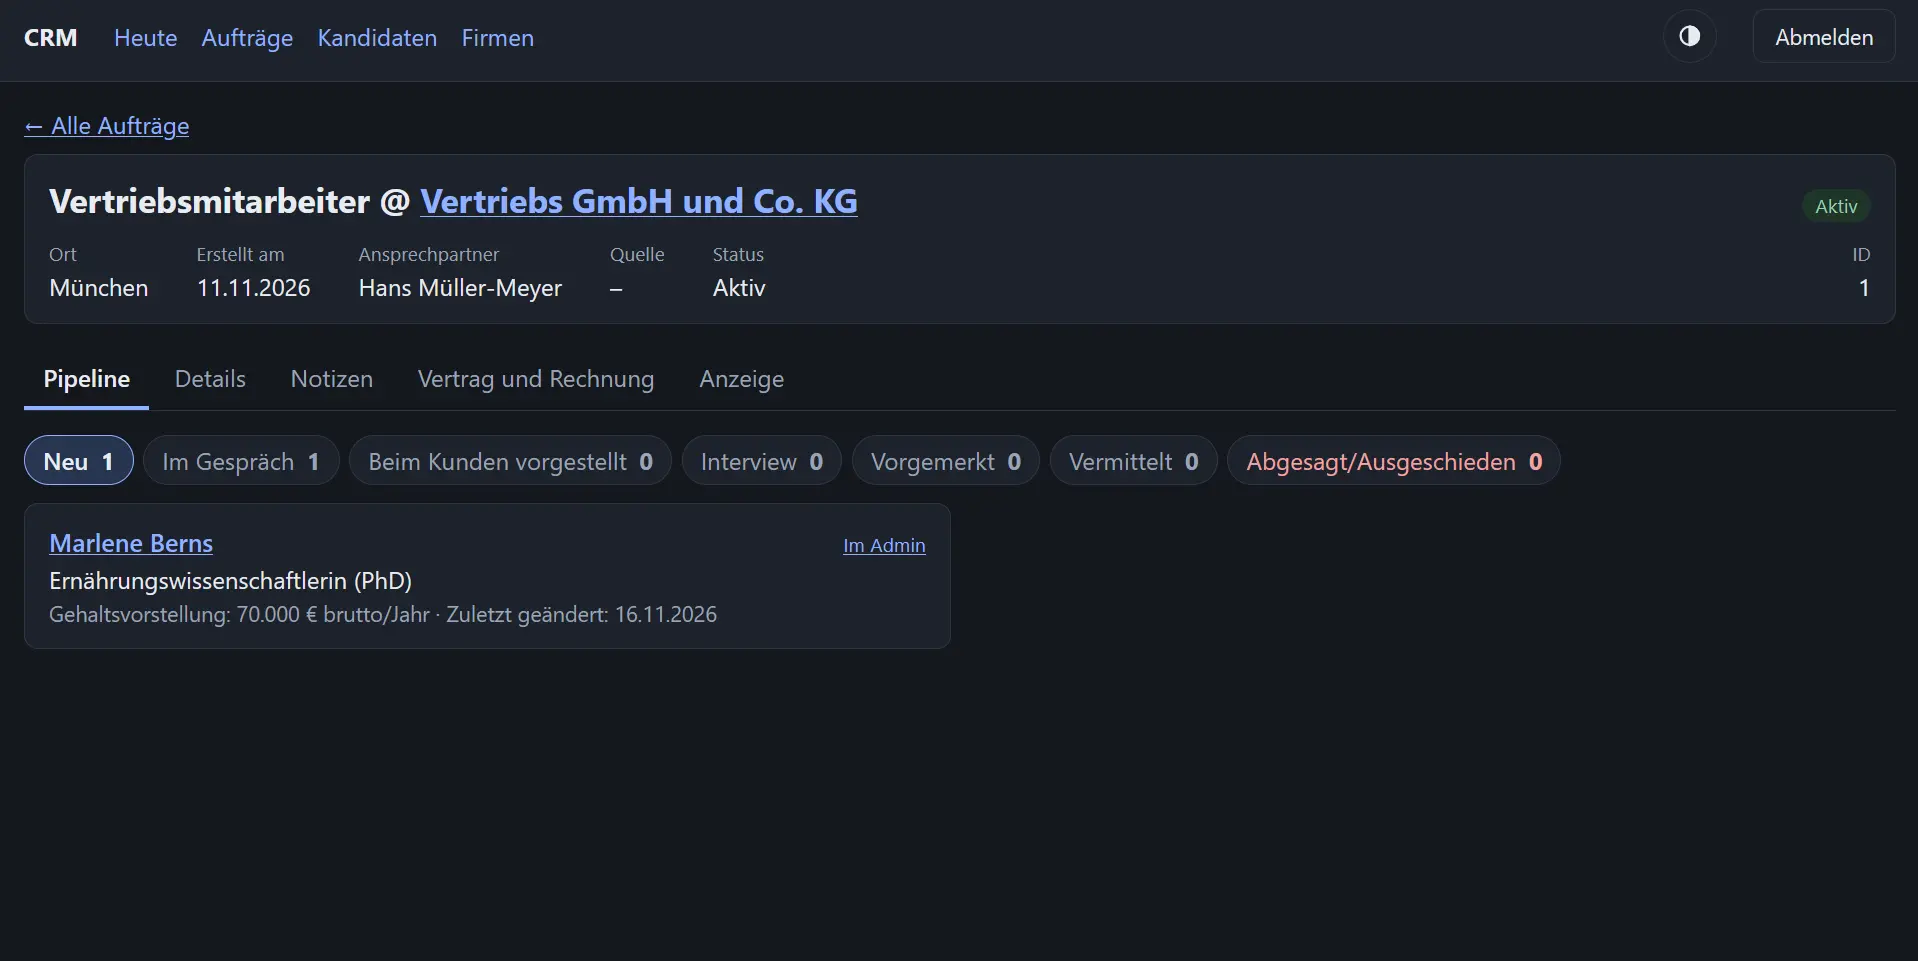
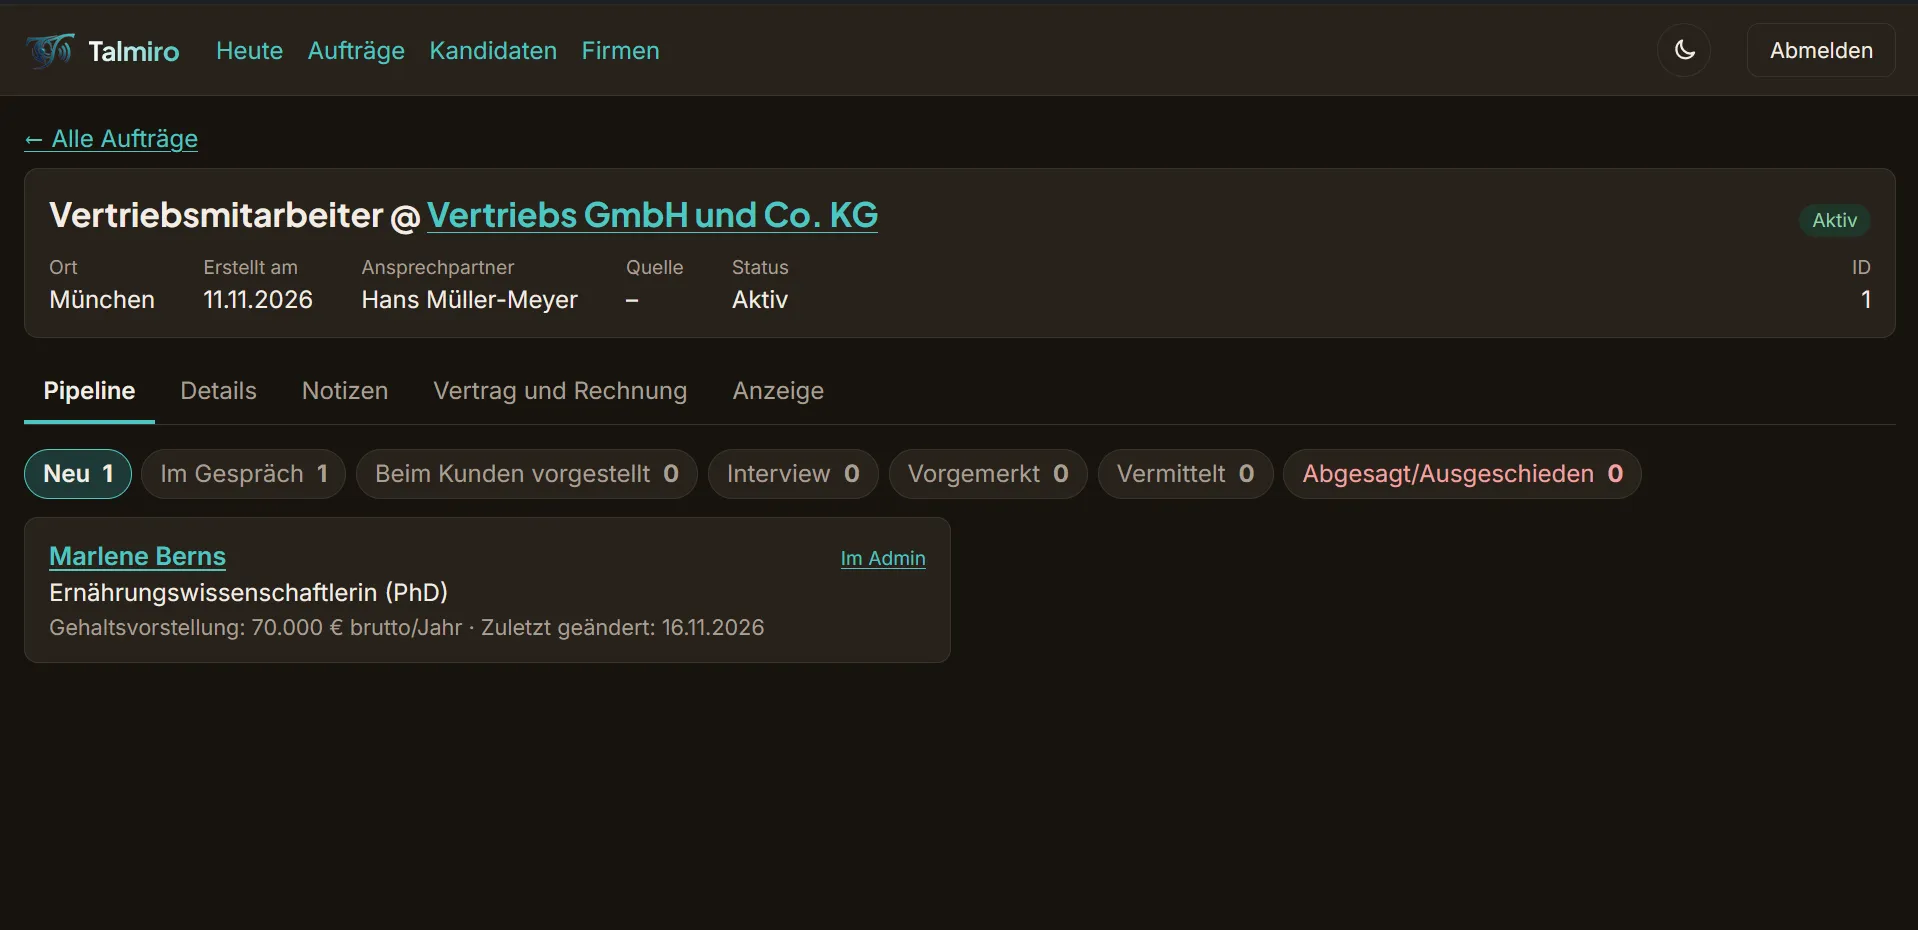
Einblicke: neue Screenshots mit Gruppe Verwaltung; Preise in Pilot und FAQ
- make-einblicke.mjs: neue Quelldateien, sechs Ausgabebilder (Admin unbeschnitten)
- Einblicke.astro: Gruppen Weboberflaeche (4) und Verwaltung (2) mit h3, neue Einleitung und Texte
- Pilot.astro und Faq.astro: Preise, Hinweis nach Paragraf 19 UStG
- PLATZHALTER.md und README aktualisiert

diff --git a/src/styles/global.css b/src/styles/global.css
@@ -329,10 +329,13 @@ html.js .nav .theme-knopf { display: inline-flex; }
 /* Einblicke: 2x2-Raster, Laptop breiter als Handy; am Handy untereinander */
 .einblicke .wrap { display: flex; flex-direction: column; gap: 40px; }
 .raster-einblicke { display: grid; grid-template-columns: 2fr 1fr; gap: 56px 48px; align-items: start; }
+.raster-einblicke.raster-admin { grid-template-columns: 1fr 1fr; }
+.einblick-gruppe { display: flex; flex-direction: column; gap: 28px; }
+.wrap .gruppen-titel { margin: 0; font-size: 24px; line-height: 1.25; color: var(--titel); }
 .einblick { margin: 0; display: flex; flex-direction: column; gap: 16px; min-width: 0; }
 .einblick-handy { align-items: center; }
 .einblick-handy .telefon { width: 100%; max-width: 260px; }
-.einblick-handy .telefon-schirm { aspect-ratio: 1080 / 2203; }
+.einblick-handy .telefon-schirm { aspect-ratio: 1080 / 2205; }
 .einblick figcaption { font-size: 15px; line-height: 1.55; color: var(--text-2); }
 .einblick figcaption strong { color: var(--titel); }
 .einblick-handy figcaption { max-width: 260px; }
@@ -341,12 +344,13 @@ html.js .nav .theme-knopf { display: inline-flex; }
 .einblick-bild, .einblick-bild img, .dialog-bild img { display: block; }
 .laptop-inner .einblick-bild, .telefon-schirm .einblick-bild { width: 100%; height: 100%; }
 .einblick-bild img { width: 100%; height: 100%; object-fit: contain; object-position: top; }
-.einblick-hell .laptop-inner, .einblick-hell .telefon-schirm { background: #f5f7f9; }
-.einblick-dunkel .laptop-inner, .einblick-dunkel .telefon-schirm { background: #14181d; }
+.einblick-hell .laptop-inner, .einblick-hell .telefon-schirm { background: #fbf8f2; }
+.einblick-dunkel .laptop-inner, .einblick-dunkel .telefon-schirm { background: #17130e; }
+.einblick-admin .laptop-inner { aspect-ratio: 1918 / 1024; }
 /* Laptop-Rahmen (nur CSS) */
 .laptop { width: 100%; }
 .laptop-rahmen { background: var(--geraet-rahmen); border-radius: 14px 14px 3px 3px; padding: 10px 10px 12px; }
-.laptop-inner { position: relative; display: block; aspect-ratio: 1918 / 961; border-radius: 4px; overflow: hidden; background: var(--geraet-schirm); }
+.laptop-inner { position: relative; display: block; aspect-ratio: 1918 / 930; border-radius: 4px; overflow: hidden; background: var(--geraet-schirm); }
 .laptop-fuss { position: relative; height: 12px; margin: 0 -3%; background: var(--geraet-fuss); border-radius: 0 0 18px 18px; }
 .laptop-fuss::after { content: ''; position: absolute; left: 50%; top: 0; width: 16%; height: 5px; transform: translateX(-50%); background: var(--geraet-kerbe); border-radius: 0 0 8px 8px; }
 /* Platzhalter, solange das Bild fehlt */
@@ -364,7 +368,7 @@ html.js .nav .theme-knopf { display: inline-flex; }
 .dialog-zu:focus-visible { outline: 3px solid var(--fokus-dunkel); outline-offset: 2px; }
 html:has(dialog[open]) { overflow: hidden; }
 @media (max-width: 720px) {
-  .raster-einblicke { grid-template-columns: 1fr; gap: 40px; }
+  .raster-einblicke, .raster-einblicke.raster-admin { grid-template-columns: 1fr; gap: 40px; }
 }
 
 .kontrolle { background: var(--flaeche); }
@@ -377,6 +381,7 @@ html:has(dialog[open]) { overflow: hidden; }
 
 .pilot .wrap { display: flex; flex-wrap: wrap; gap: 48px; align-items: flex-start; }
 .pilot-text { flex: 1 1 400px; display: flex; flex-direction: column; gap: 20px; }
+.preis-hinweis { margin: 0; font-size: 14px; line-height: 1.5; color: var(--text-3); }
 .pilot-text ul { margin: 0; padding-left: 20px; display: flex; flex-direction: column; gap: 10px; font-size: 17px; line-height: 1.5; color: var(--text); }
 .formular { flex: 1 1 420px; min-width: 0; background: var(--flaeche); border-radius: 20px; padding: 32px; display: flex; flex-direction: column; gap: 18px; }
 .feld { display: flex; flex-direction: column; gap: 6px; }

diff --git a/README.md b/README.md
@@ -108,8 +108,8 @@ räumt auf. Es bricht ab, wenn schon eine `kontakt.config.php` im Projektordner 
 
 ## Einblicke (Screenshots)
 
-- Komponente `src/components/Einblicke.astro`, Raster 2×2: oben „Hell“, unten „Dunkel“, links Laptop, rechts Handy (am Handy untereinander).
-- Bilder: `hell-laptop`, `hell-handy`, `dunkel-laptop`, `dunkel-handy` (webp/png/jpg) in `src/assets/einblicke/`. Fehlt ein Bild, bleibt der Platzhalter „Bild folgt“. Astro erzeugt AVIF/WebP in mehreren Größen (`loading="lazy"`); ein Klick öffnet das Bild groß in einem `<dialog>`.
-- Neu erzeugen aus `_entwurf/ui-hell_compressed.webp`, `ui-hell-handy_compressed.webp`, `ui-dark_compressed.webp`, `ui-dark-handy_compressed.webp`: `npm run einblicke` (Skript `scripts/make-einblicke.mjs`). Bei den Handy-Bildern werden Systemstatusleiste oben (ca. 132 px) und Gestenleiste unten (ca. 65 px) abgeschnitten; die Grenzen werden am Bild gesucht und beide Bilder bekommen denselben Zuschnitt.
-- Alle Laptop-Rahmen haben dasselbe Format (1918 / 961); das Bild sitzt oben (`object-position: top`) und wird nicht verzerrt, ein übrig bleibender Streifen hat die Hintergrundfarbe des Screenshots. Der Handy-Rahmen hat das Format des zugeschnittenen Bildes (1080 / 2203).
+- Komponente `src/components/Einblicke.astro`, zwei Gruppen mit `h3`: „Weboberfläche“ (Raster 2×2: oben hell, unten dunkel, links Laptop, rechts Handy) und „Verwaltung“ (zwei Laptop-Bilder, hell und dunkel; am Handy untereinander).
+- Bilder: `hell-laptop`, `hell-handy`, `dunkel-laptop`, `dunkel-handy`, `admin-hell`, `admin-dunkel` (webp/png/jpg) in `src/assets/einblicke/`. Fehlt ein Bild, bleibt der Platzhalter „Bild folgt“. Astro erzeugt AVIF/WebP in mehreren Größen (`loading="lazy"`); ein Klick öffnet das Bild groß in einem `<dialog>`.
+- Neu erzeugen aus `_entwurf/ui-laptop-hell.webp`, `ui-laptop-dunkel.webp`, `ui-handy-hell.webp`, `ui-handy-dunkel.webp`, `admin-laptop-hell.webp`, `admin-laptop-dunkel.webp`: `npm run einblicke` (Skript `scripts/make-einblicke.mjs`). Bei den Handy-Bildern werden Systemstatusleiste oben (ca. 132 px) und Gestenleiste unten (ca. 63 px) abgeschnitten; die Grenzen werden am Bild gesucht, beide Bilder bekommen denselben Zuschnitt. Die Admin-Bilder werden nicht beschnitten.
+- Laptop-Rahmen: Weboberfläche 1918 / 930, Verwaltung 1918 / 1024; das Bild sitzt oben (`object-position: top`) und wird nicht verzerrt, ein übrig bleibender Streifen hat die Hintergrundfarbe des Screenshots. Der Handy-Rahmen hat das Format des zugeschnittenen Bildes (1080 / 2205).
 - Alt-Texte und Bildunterschriften stehen im Kopf der Komponente. **Nur Testdaten auf den Screenshots.**

diff --git a/PLATZHALTER.md b/PLATZHALTER.md
@@ -21,10 +21,8 @@
 | Platzhalter | Ort |
 |---|---|
 | `[ANGABEN ZU SERVERSTANDORT UND AUFTRAGSVERARBEITUNG – nach rechtlicher Klärung]` | `Kontrolle.astro` (Karte „Datenschutz und Hosting“) |
-| `[PREIS PILOT]` | `Pilot.astro` |
 | `[TARIF, z. B. Pro oder Max]`, `[EMPFEHLUNG TEAM-TARIF MIT AUFTRAGSVERARBEITUNG – nach Klärung]` | `Faq.astro` („Brauche ich ein Claude-Konto?“) |
 | `[ANTWORT NACH KLÄRUNG HOSTING UND AUFTRAGSVERARBEITUNG]` | `Faq.astro` („Wo liegen meine Daten?“) |
-| `[PREISMODELL]` | `Faq.astro` („Was kostet Talmiro?“) |
 | `[STATUS: Import in Vorbereitung]` | `Faq.astro` („Kann ich meine bestehenden Kontakte übernehmen?“) |
 | `[KONTAKT: E-Mail-Adresse für den Fall, dass das Formular nicht funktioniert]` | `src/pages/fehler.astro` (nicht im Entwurf, ergänzt) |
 
@@ -32,7 +30,7 @@
 
 - **Hero-Video:** `public/media/hero-*` stammen aus `_entwurf/demo-video.mp4` (Bildschirmaufnahme, 2:02 min, 626×1050). Vor dem Livegang prüfen: nur Testdaten im Bild (keine echten Namen, Kontakte, Firmen), Ton und Inhalt freigegeben. Neues Video: `npm run video -- <datei>` (siehe README).
 - **Untertitel:** `public/media/demo-video.de.vtt` ist ein leerer Platzhalter. Der Text kommt von Niko bzw. aus dem Transkript; danach in `src/components/Hero.astro` `UNTERTITEL = true` setzen. Bis dahin wird der Track nicht ausgeliefert.
-- **Einblicke:** erledigt, vier Screenshots (hell/dunkel, Laptop/Handy) liegen unter `src/assets/einblicke/` (Testdaten). **Die Oberfläche zeigt noch „CRM“ statt „Talmiro“:** nach der Umbenennung in der Software neue Screenshots aufnehmen, in `_entwurf` ablegen und `npm run einblicke` ausführen.
+- **Einblicke:** sechs Screenshots (Weboberfläche hell/dunkel × Laptop/Handy, Verwaltung hell/dunkel) liegen unter `src/assets/einblicke/` (Testdaten). Bei neuen Screenshots in `_entwurf` ablegen und `npm run einblicke` ausführen. In den Verwaltungs-Screenshots ist der Vorname „Niko“ (angemeldeter Benutzer) sichtbar; vor dem Livegang entscheiden, ob das so bleiben soll.
 - Bildunterschriften und Alt-Texte der Einblicke (Kopf von `Einblicke.astro`) bei neuen Screenshots prüfen.
 
 ## Betrieb
